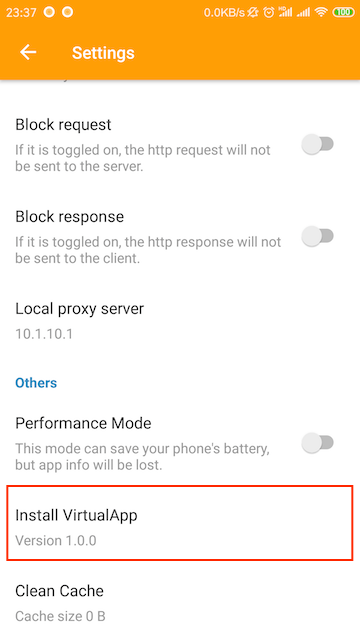
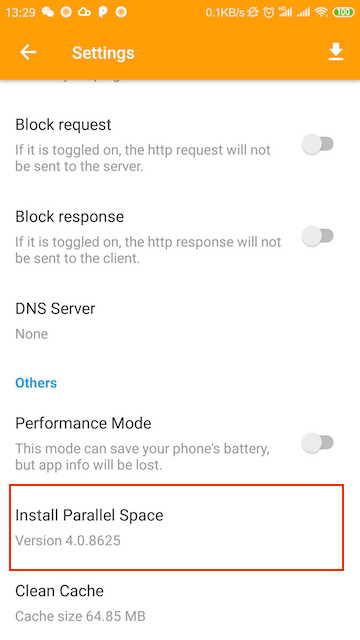
update doc

diff --git a/docs/v1/en-US/README.md b/docs/v1/en-US/README.md
@@ -25,9 +25,9 @@ Before using, it is recommended to read the basic usage steps and advanced usage
 ### 1. Installation certificate
 HttpCanary uses Man-in-the-Middle (MITM) technology to capture and parse TLS/SSL packets, such as HTTPS, WSS, etc., so you need to install a self-signed Certificate Authorities (CA) before using it. Tap the capture button -> Confirm your pattern -> OK to complete the installation of the certificate.
 
-![](https://github.com/MegatronKing/HttpCanary/blob/master/en-US/assets/screenshot01.png)
+![](https://github.com/MegatronKing/HttpCanary/blob/master/docs/v1/en-US/assets/screenshot01.png)
 
-![](https://github.com/MegatronKing/HttpCanary/blob/master/en-US/assets/screenshot02.png)
+![](https://github.com/MegatronKing/HttpCanary/blob/master/docs/v1/en-US/assets/screenshot02.png)
 
 ### 2. Android 7.0+（Optional）
 This is an **optional** step for some special cases of the Nougat(7.0)+ system. From Android Nougat(7.0), Google changed the network security policy. Self-signed Certificate Authorities (CA) are not trusted by any apps' secure connections by default. That means HttpCanary is unable to decrypt TLS/SSL packets. But we have two ways to get around it.
@@ -59,21 +59,25 @@ For more information, please see Android Developer [Network security configurati
 
 #### 2.2 Third-part app
 
-We can use [VirtualApp](https://github.com/asLody/VirtualApp) to capture the third-part app's TLS/SSL packets.
+We can use Parallel Space App to capture the third-part app's TLS/SSL packets.
 
-Go to HttpCanary Settings -> Install VirtualApp and click to install.
+Go to HttpCanary Settings -> Install Parallel Space and click to install.
 
-![](https://github.com/MegatronKing/HttpCanary/blob/master/en-US/assets/screenshot03.png)
+![](https://github.com/MegatronKing/HttpCanary/blob/master/docs/v1/en-US/assets/screenshot03.png)
 
-Open VirtualApp and install the target app which you want to capture. Launch the installed target app from VirtualApp and then you will see the packets hosted by VirtualApp in HttpCanary.
+Open Parallel Space App and install the target app which you want to capture. Launch the installed target app from Parallel Space App and then you will see the packets hosted by Parallel Space in HttpCanary.
 
-![](https://github.com/MegatronKing/HttpCanary/blob/master/en-US/assets/screenshot04.png)
+![](https://github.com/MegatronKing/HttpCanary/blob/master/docs/v1/en-US/assets/screenshot04.png)
+
+#### 2.3 Install a lower targetVersionSDK version of the target app
+
+If the app's targetVersionSDK < 24, HttpCanary can capture SSL/TLS packets even runs on Android 7.0+. 
 
 ## Running HttpCanary
 
 Tap the floating button in home page to start and stop capturing packets. Remember, long presses can quickly clear the record (A trick).
 
-![](https://github.com/MegatronKing/HttpCanary/blob/master/en-US/assets/screenshot05.png)
+![](https://github.com/MegatronKing/HttpCanary/blob/master/docs/v1/en-US/assets/screenshot05.png)
 
 Capture packets are sorted by time, the list contains elements such as app icon, app name, request method, request URL, response code, and time. You can clear the list by clicking the button in ActionBar.
 
@@ -81,13 +85,13 @@ Capture packets are sorted by time, the list contains elements such as app icon,
 
 HttpCanary supports specifying capture targets, you can specify the apps or the Hosts and IPs.
 
-![](https://github.com/MegatronKing/HttpCanary/blob/master/en-US/assets/screenshot06.png)
+![](https://github.com/MegatronKing/HttpCanary/blob/master/docs/v1/en-US/assets/screenshot06.png)
 
 ### 2. Filter and Search
 
 Tap the 🔍 menu button in ActionBar and go to the advanced search page. You can configure multiple conditions to filter the packets.
 
-![](https://github.com/MegatronKing/HttpCanary/blob/master/en-US/assets/screenshot07.png)
+![](https://github.com/MegatronKing/HttpCanary/blob/master/docs/v1/en-US/assets/screenshot07.png)
 
 Tap the menu button in this page to reset all filter conditions.
 
@@ -101,21 +105,21 @@ HttpCanary provides detailed data browsing capabilities. The details page contai
 
 The overview provides packet reports including status, request protocol, request method, response code, server IP and port, cookie, Content-Type, timing, packet sizes, and more.
 
-![](https://github.com/MegatronKing/HttpCanary/blob/master/en-US/assets/screenshot08.png)
+![](https://github.com/MegatronKing/HttpCanary/blob/master/docs/v1/en-US/assets/screenshot08.png)
 
 Tips: Long press an item to copy it quickly.
 
 If the URL has query parameters, tap the item to go to the URL preview page:
 
-![](https://github.com/MegatronKing/HttpCanary/blob/master/en-US/assets/screenshot09.png)
+![](https://github.com/MegatronKing/HttpCanary/blob/master/docs/v1/en-US/assets/screenshot09.png)
 
 Tap the Cookie item to go to the Cookie preview page:
 
-![](https://github.com/MegatronKing/HttpCanary/blob/master/en-US/assets/screenshot10.png)
+![](https://github.com/MegatronKing/HttpCanary/blob/master/docs/v1/en-US/assets/screenshot10.png)
 
 Tap the Set-Cookie item to go to the Set-Cookie preview page:
 
-![](https://github.com/MegatronKing/HttpCanary/blob/master/en-US/assets/screenshot11.png)
+![](https://github.com/MegatronKing/HttpCanary/blob/master/docs/v1/en-US/assets/screenshot11.png)
 
 #### 3.2 Request and Response
 
@@ -125,7 +129,7 @@ The request and response contain multiple viewers, tap the bottom tabs to switch
 
 The Raw viewer presents the original packet data, without any decoding and decrypting. The viewer contains the full packet data. You can long press and select data to copy.
 
-![](https://github.com/MegatronKing/HttpCanary/blob/master/en-US/assets/screenshot12.png)
+![](https://github.com/MegatronKing/HttpCanary/blob/master/docs/v1/en-US/assets/screenshot12.png)
 
 This viewer displays up to 32k of data due to character limitations.
 
@@ -133,13 +137,13 @@ This viewer displays up to 32k of data due to character limitations.
 
 The Header viewer presents request lines, request headers, response lines, and response headers. Long press an item to copy quickly.
 
-![](https://github.com/MegatronKing/HttpCanary/blob/master/en-US/assets/screenshot13.png)
+![](https://github.com/MegatronKing/HttpCanary/blob/master/docs/v1/en-US/assets/screenshot13.png)
 
 ##### 3.2.3 Text Viewer
 
 The Text viewer presents content data, will automatically decode data like gzip, chunked, deflate, etc.. Long press an item to copy quickly.
 
-![](https://github.com/MegatronKing/HttpCanary/blob/master/en-US/assets/screenshot14.png)
+![](https://github.com/MegatronKing/HttpCanary/blob/master/docs/v1/en-US/assets/screenshot14.png)
 
 This viewer displays up to 32k of data due to character limitations.
 
@@ -147,7 +151,7 @@ This viewer displays up to 32k of data due to character limitations.
 
 The Hex viewer presents content data in hex format, it will be easy to analyze them.
 
-![](https://github.com/MegatronKing/HttpCanary/blob/master/en-US/assets/screenshot15.png)
+![](https://github.com/MegatronKing/HttpCanary/blob/master/docs/v1/en-US/assets/screenshot15.png)
 
 This viewer displays up to 32k of data due to character limitations.
 
@@ -155,25 +159,25 @@ This viewer displays up to 32k of data due to character limitations.
 
 HttpCanary supports previews of some data types, like JSON, Forms, images, audio and so on.
 
-![](https://github.com/MegatronKing/HttpCanary/blob/master/en-US/assets/screenshot16.png)
+![](https://github.com/MegatronKing/HttpCanary/blob/master/docs/v1/en-US/assets/screenshot16.png)
 
 ##### 3.2.6 JSON Viewer
 
 If the data type is JSON, you can open the JSON viewer by clicking the JSON content. You can operate JSON nodes, expand or collapse all nodes. It also supports horizontal screen.
 
-![](https://github.com/MegatronKing/HttpCanary/blob/master/en-US/assets/screenshot17.png)
+![](https://github.com/MegatronKing/HttpCanary/blob/master/docs/v1/en-US/assets/screenshot17.png)
 
 ##### 3.2.7 Audio Viewer
 
 If the data type is an audio, you can click to open the audio viewer. The audio viewer supports audio playback and saving.
 
-![](https://github.com/MegatronKing/HttpCanary/blob/master/en-US/assets/screenshot18.png)
+![](https://github.com/MegatronKing/HttpCanary/blob/master/docs/v1/en-US/assets/screenshot18.png)
 
 ##### 3.2.8 WebSocket Viewer
 
 The WebSocket viewer presents the packets in the form of a chat.
 
-![](https://github.com/MegatronKing/HttpCanary/blob/master/en-US/assets/screenshot19.png)
+![](https://github.com/MegatronKing/HttpCanary/blob/master/docs/v1/en-US/assets/screenshot19.png)
 
 #### 3.3 Packet Save
 
@@ -191,7 +195,7 @@ Injection is one of the core functions of HttpCanary. You can modify the request
 
 HttpCanary provides two different modes for the injection. They are static mode and dynamic mode. You can long press on the record to choose an injection mode.
 
-![](https://github.com/MegatronKing/HttpCanary/blob/master/en-US/assets/screenshot20.png)
+![](https://github.com/MegatronKing/HttpCanary/blob/master/docs/v1/en-US/assets/screenshot20.png)
 
 ### 1. Static Mode
 
@@ -202,7 +206,7 @@ If you configured a static mode injection, the injector will be stored for next 
 
 #### 1.1 Request Injection
 
-![](https://github.com/MegatronKing/HttpCanary/blob/master/en-US/assets/screenshot21.png)
+![](https://github.com/MegatronKing/HttpCanary/blob/master/docs/v1/en-US/assets/screenshot21.png)
 
 Static mode provides an injection edit page to preprocess data. You can choose to inject the query parameters, request headers or the request body.
 
@@ -216,18 +220,18 @@ For the body injection, see the following response injection.
 
 #### 1.2 Response Injection
 
-![](https://github.com/MegatronKing/HttpCanary/blob/master/en-US/assets/screenshot22.png)
+![](https://github.com/MegatronKing/HttpCanary/blob/master/docs/v1/en-US/assets/screenshot22.png)
 
 Static mode supports injecting response status line, headers and body. The following figure is an injection of the status line, you can select one from the list:
 
-![](https://github.com/MegatronKing/HttpCanary/blob/master/en-US/assets/screenshot23.png)
+![](https://github.com/MegatronKing/HttpCanary/blob/master/docs/v1/en-US/assets/screenshot23.png)
 
 For the body injection, static mode provides two ways.
 
 - Upload a body file, tap the upload icon and select a file from File Browser.
 - Edit online, it supports only when the body data is human readable.
 
-![](https://github.com/MegatronKing/HttpCanary/blob/master/en-US/assets/screenshot24.png)
+![](https://github.com/MegatronKing/HttpCanary/blob/master/docs/v1/en-US/assets/screenshot24.png)
 
 ### 2. Dynamic Mode
 
@@ -235,13 +239,13 @@ Compare to static mode, the dynamic mode doesn't support the injection of reques
 
 You can use the dynamic mode when the capture service is running. And remember that you should handle the data before timeout.
 
-![](https://github.com/MegatronKing/HttpCanary/blob/master/en-US/assets/screenshot25.png)
+![](https://github.com/MegatronKing/HttpCanary/blob/master/docs/v1/en-US/assets/screenshot25.png)
 
 ### 3. Injection Results
 
 If a request is injected, the record item will show an indicated text.
 
-![](https://github.com/MegatronKing/HttpCanary/blob/master/en-US/assets/screenshot26.png)
+![](https://github.com/MegatronKing/HttpCanary/blob/master/docs/v1/en-US/assets/screenshot26.png)
 
 ## Repeat and Compose
 
@@ -251,19 +255,19 @@ From v2.2.0, HttpCanary supports repeat and compose requests.
 
 You can long press the record item and choose the function.
 
-![](https://github.com/MegatronKing/HttpCanary/blob/master/en-US/assets/screenshot27.png)
+![](https://github.com/MegatronKing/HttpCanary/blob/master/docs/v1/en-US/assets/screenshot27.png)
 
 ### 1. Repeat
 
 You can choose an item and repeat to send it. The repeated request is from HttpCanary app, and can be injected by you injectors. So if you want to inject a request, the repeat function would be very helpful.
 
-![](https://github.com/MegatronKing/HttpCanary/blob/master/en-US/assets/screenshot28.png)
+![](https://github.com/MegatronKing/HttpCanary/blob/master/docs/v1/en-US/assets/screenshot28.png)
 
 ### 2. Compose
 
 Compose is an advanced repeat feature. You can edit the existing request data and then repeat it.
 
-![](https://github.com/MegatronKing/HttpCanary/blob/master/en-US/assets/screenshot29.png)
+![](https://github.com/MegatronKing/HttpCanary/blob/master/docs/v1/en-US/assets/screenshot29.png)
 
 There are two menu items on ActionBar. The left one is revert, use this to revert your changes. And the right one is submit.
 
